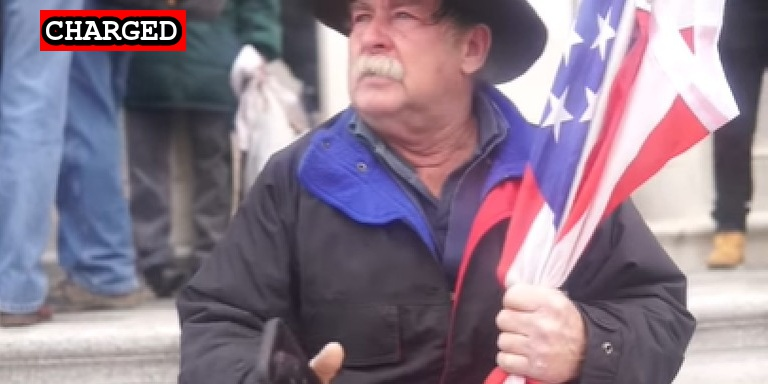
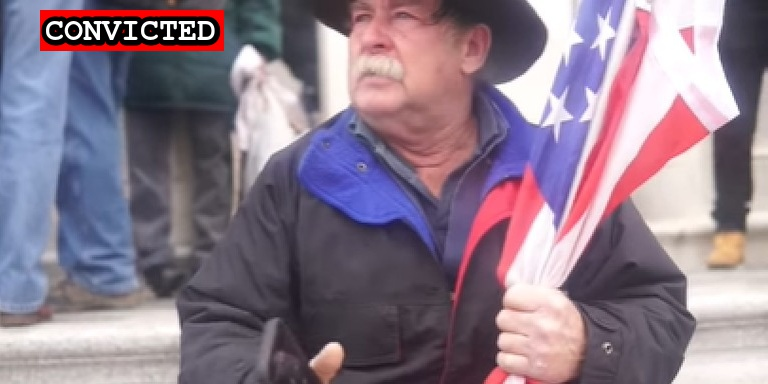
Tryon conviction

Changed region(s): [[0.0625, 0.0, 0.3125, 0.1562]]

diff --git a/docs/_suspects/william-tryon.md b/docs/_suspects/william-tryon.md
@@ -4,16 +4,16 @@ lastName: Tryon
 hashtag: LaptopCowGramps
 aka:
 residence: New York
-status: Charged
+status: Convicted
 date: 2021-03-30
 charged: 2021-03-30
 indicted:
-convicted:
+convicted: 2021-10-18
 sentenced:
 dismissed:
 deceased:
 plea_hearing: 2021-10-18
-sentencing:
+sentencing: 2022-01-14
 age: 70
 occupation:
 affiliations: Liberty Bell Alliance 76
@@ -34,6 +34,10 @@ published: true
 caseNumber:
 videos:
 charges:
+  - code: 18 USC § 1752(a)(1)
+    title: Entering a restricted building or grounds
+    url: https://www.law.cornell.edu/uscode/text/18/1752
+    felony: false
 sentence:
 ---
 
